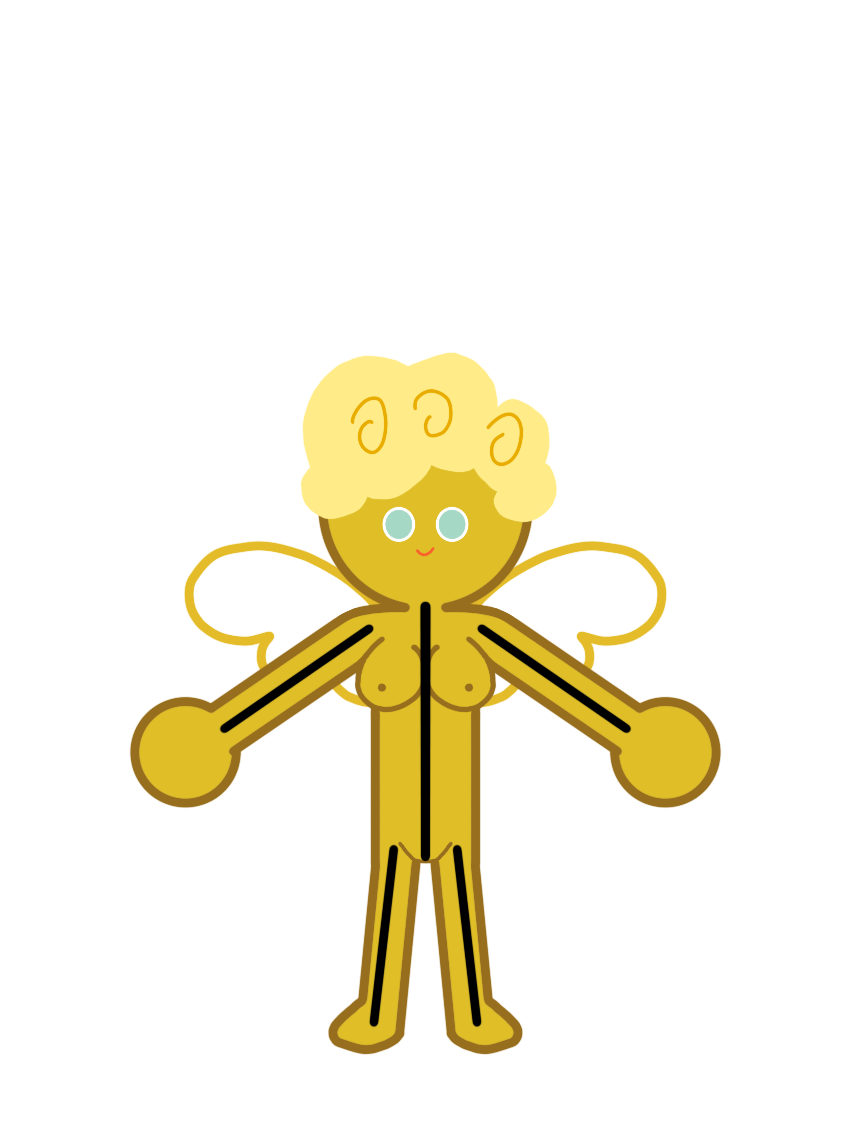
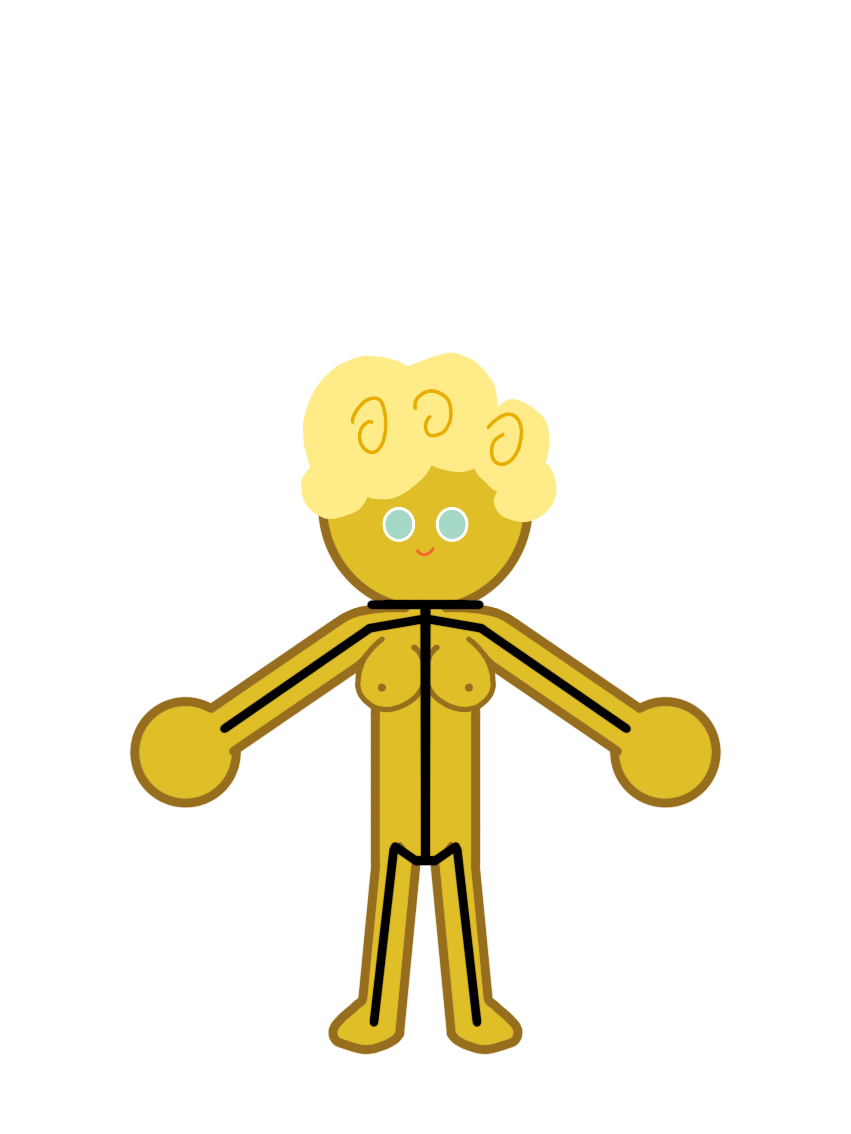
Second skeleton pass, and give each wing its own pivot
The new body drawing adds a shoulder bar and a little V at the hips, and it
settles the two things the first one left me guessing at.

The arm strokes turn out to be dead straight — half a pixel of residual over
their whole length, the legs a third of a pixel — so there is no elbow or knee
in the drawing to read and both stay at the midpoint. What the shoulder bar
changes is the top of the body: chest moves up to the middle of the bar at
y=605, from 626, and the shoulders come from where the arm strokes begin rather
than from the bar's ends. Those two readings agree on x to within a pixel and
differ by 24px in y, so the bar is read as the collarbone — it gives the chest
and the width the shoulders brace to — and the arm strokes give the pivots,
because a shoulder pivots where the arm leaves the body. That is the one
judgement call in the list and it is written down next to it.

Everything else moved by a pixel or two. neck 602 -> 600, pelvis 860 -> 864,
hips 845 -> 848, hands and feet unchanged.

The wings are now two parts rather than one. They were drawn with a bone each,
pivoting just off the spine, and one rigid piece cannot do that — it can only
tilt as a signboard. Rather than ask for the PNG to be exported twice, parts
take a clipX: the artwork already has a 105px gap between the two wings in every
sprite here, so cutting at x=425 loses no pixel and both entries share one file.
'flip' mirrors the far wing's flap and only the flap: both wings still trail the
[…]

diff --git a/pet_rig_config.js b/pet_rig_config.js
@@ -52,40 +52,50 @@ window.PET_RIG = {
     // NATURAL — traced off tools/skeleton.png, the bones drawn by hand over
     // the character. Arms out and down at 34° below horizontal; legs straight.
     //
-    // Five lines were drawn — spine, two arms, two legs — and the seventeen
-    // joints come off them like this, which is worth knowing if you redraw it:
+    // The drawing has a shoulder bar, a spine, two arms, two legs and a little
+    // V at the hips, and the seventeen joints come off them like this — worth
+    // knowing if you redraw it:
     //
     //   neck / pelvis     the two ends of the spine line
-    //   chest             on the spine, level with the shoulders (the sternum)
+    //   chest             the middle of the shoulder bar
+    //   shoulderL/R       the two ends of the ARM strokes, not of the bar. The
+    //                     bar sits 24px higher, and the two agree on x to
+    //                     within a pixel — so the bar is read as the collarbone
+    //                     (it gives chest, and the width the shoulders brace
+    //                     to) and the arm strokes give the pivots, because a
+    //                     shoulder pivots where the arm leaves the body. That
+    //                     is the one judgement call in this list.
     //   waist             on the spine, 62% of the way down
-    //   shoulder / hand   the two ends of an arm line
-    //   hip / foot        the two ends of a leg line
-    //   elbow / knee      halfway along, because a straight line does not say
-    //                     where they are. Mark them and they will be used.
+    //   hand / foot       the far ends of the arm and leg strokes
+    //   hipL/R            the outer ends of the V under the pelvis
+    //   elbow / knee      halfway along. The arm strokes are straight to within
+    //                     half a pixel over their whole length and the legs to
+    //                     within a third, so there is no bend to read. Draw one
+    //                     and it will be used instead.
     //   headTop           not drawn — placed so the head bone runs up the
-    //                     middle of the head. It is the one number here that
-    //                     came off the artwork rather than off the drawing.
+    //                     middle of the head. The one number here that came off
+    //                     the artwork rather than off the drawing.
     //
-    // The drawing came out symmetric to within a pixel: the four arm bones are
-    // 91.3–91.8px and all four leg bones are 90.7px.
+    // Symmetric to within a pixel: the arm bones come out 88.5–89.0px and every
+    // leg bone 89.7px.
     // ---------------------------------------------------------------------
     natural: {
       joints: {
         headTop:    { x:  424, y:  392 },
-        neck:       { x:  423, y:  602 },
-        chest:      { x:  423, y:  626 },
-        waist:      { x:  425, y:  762 },
-        pelvis:     { x:  426, y:  860 },
-        shoulderL:  { x:  372, y:  627 },
-        shoulderR:  { x:  479, y:  625 },
-        elbowL:     { x:  296, y:  678 },
-        elbowR:     { x:  554, y:  678 },
+        neck:       { x:  425, y:  600 },
+        chest:      { x:  425, y:  605 },
+        waist:      { x:  425, y:  764 },
+        pelvis:     { x:  425, y:  864 },
+        shoulderL:  { x:  367, y:  629 },
+        shoulderR:  { x:  483, y:  629 },
+        elbowL:     { x:  294, y:  680 },
+        elbowR:     { x:  556, y:  680 },
         handL:      { x:  221, y:  730 },
         handR:      { x:  629, y:  730 },
-        hipL:       { x:  394, y:  845 },
-        hipR:       { x:  456, y:  845 },
-        kneeL:      { x:  383, y:  935 },
-        kneeR:      { x:  467, y:  935 },
+        hipL:       { x:  394, y:  848 },
+        hipR:       { x:  456, y:  848 },
+        kneeL:      { x:  383, y:  937 },
+        kneeR:      { x:  467, y:  937 },
         footL:      { x:  372, y: 1025 },
         footR:      { x:  478, y: 1025 },
       },
@@ -121,7 +131,7 @@ window.PET_RIG = {
     // ---------------------------------------------------------------------
     // T-POSE — for art drawn with the arms straight out and the legs straight
     // down. Same character, same bone lengths as the drawn skeleton above
-    // (91.5px upper arm, 91.3px forearm, 90.7px thigh and shin), swung onto
+    // (89.0px upper arm, 88.5px forearm, 89.7px thigh and shin), swung onto
     // the axes.
     //
     // These are a starting point, not a measurement: nobody has drawn T-posed
@@ -130,22 +140,22 @@ window.PET_RIG = {
     tpose: {
       joints: {
         headTop:    { x:  424, y:  392 },
-        neck:       { x:  423, y:  602 },
-        chest:      { x:  423, y:  626 },
-        waist:      { x:  425, y:  762 },
-        pelvis:     { x:  426, y:  860 },
-        shoulderL:  { x:  372, y:  627 },
-        shoulderR:  { x:  479, y:  625 },
-        elbowL:     { x:  280, y:  627 },
-        elbowR:     { x:  571, y:  625 },
-        handL:      { x:  189, y:  627 },
-        handR:      { x:  662, y:  625 },
-        hipL:       { x:  394, y:  845 },
-        hipR:       { x:  456, y:  845 },
-        kneeL:      { x:  394, y:  936 },
-        kneeR:      { x:  456, y:  936 },
-        footL:      { x:  394, y: 1026 },
-        footR:      { x:  456, y: 1026 },
+        neck:       { x:  425, y:  600 },
+        chest:      { x:  425, y:  605 },
+        waist:      { x:  425, y:  764 },
+        pelvis:     { x:  425, y:  864 },
+        shoulderL:  { x:  367, y:  629 },
+        shoulderR:  { x:  483, y:  629 },
+        elbowL:     { x:  278, y:  629 },
+        elbowR:     { x:  572, y:  629 },
+        handL:      { x:  190, y:  629 },
+        handR:      { x:  660, y:  629 },
+        hipL:       { x:  394, y:  848 },
+        hipR:       { x:  456, y:  848 },
+        kneeL:      { x:  394, y:  938 },
+        kneeR:      { x:  456, y:  938 },
+        footL:      { x:  394, y: 1028 },
+        footR:      { x:  456, y: 1028 },
       },
 
       // Measured from horizontal now, so they are not the natural pose's
@@ -293,8 +303,17 @@ window.PET_RIG = {
     { id: 'hairBack', img: 'hair_back.png', bone: 'head', anchor: { x: 425, y: 420 },
       z: 55, lag: 0.14, maxLag: 10 },
 
-    { id: 'wings', img: 'wings.png', bone: 'torso', anchor: { x: 425, y: 648 },
-      z: 40, lag: 0.22, maxLag: 16, flap: true },
+    // TWO wings, not one. They are a single PNG — clipX takes the half each
+    // entry is, cut through the 105px gap the artwork already has between
+    // them, so nothing is lost and nothing has to be re-exported. Each gets the
+    // pivot drawn for it in tools/skeleton_wings.png, just off the spine, which
+    // is what lets them beat instead of tilting together like a signboard.
+    // 'flip' mirrors the far one's flap; both still trail the body the same way.
+    { id: 'wingL', img: 'wings.png', clipX: [0, 425], bone: 'torso',
+      anchor: { x: 409, y: 676 }, z: 40, lag: 0.22, maxLag: 16, flap: true },
+
+    { id: 'wingR', img: 'wings.png', clipX: [425, 851], bone: 'torso',
+      anchor: { x: 440, y: 675 }, z: 40, lag: 0.22, maxLag: 16, flap: true, flip: true },
 
   ],
 
@@ -401,14 +420,14 @@ window.PET_RIG = {
   // as well and moving them with the chest.
   softTissue: [
     { id: 'bustL',  x: 395, y: 682, radius: 58, lag: 0.34, stiffness: 190, damping: 20, sag: 0.010, maxOffset: 3.5 },
-    { id: 'bustR',  x: 457, y: 682, radius: 58, lag: 0.34, stiffness: 190, damping: 20, sag: 0.010, maxOffset: 3.5 },
-    { id: 'belly',  x: 425, y: 805, radius: 72, lag: 0.16, stiffness: 240, damping: 28, sag: 0.005, maxOffset: 2 },
-    { id: 'hipL',   x: 396, y: 872, radius: 62, lag: 0.12, stiffness: 280, damping: 32, maxOffset: 1.6 },
-    { id: 'hipR',   x: 454, y: 872, radius: 62, lag: 0.12, stiffness: 280, damping: 32, maxOffset: 1.6 },
-    { id: 'thighL', x: 389, y: 890, radius: 46, lag: 0.11, stiffness: 290, damping: 33, maxOffset: 1.5 },
-    { id: 'thighR', x: 461, y: 890, radius: 46, lag: 0.11, stiffness: 290, damping: 33, maxOffset: 1.5 },
-    { id: 'armL',   x: 334, y: 652, radius: 40, lag: 0.09, stiffness: 320, damping: 36, maxOffset: 1.1 },
-    { id: 'armR',   x: 516, y: 651, radius: 40, lag: 0.09, stiffness: 320, damping: 36, maxOffset: 1.1 },
+    { id: 'bustR',  x: 455, y: 682, radius: 58, lag: 0.34, stiffness: 190, damping: 20, sag: 0.010, maxOffset: 3.5 },
+    { id: 'belly',  x: 425, y: 810, radius: 72, lag: 0.16, stiffness: 240, damping: 28, sag: 0.005, maxOffset: 2 },
+    { id: 'hipL',   x: 395, y: 874, radius: 62, lag: 0.12, stiffness: 280, damping: 32, maxOffset: 1.6 },
+    { id: 'hipR',   x: 455, y: 874, radius: 62, lag: 0.12, stiffness: 280, damping: 32, maxOffset: 1.6 },
+    { id: 'thighL', x: 389, y: 893, radius: 46, lag: 0.11, stiffness: 290, damping: 33, maxOffset: 1.5 },
+    { id: 'thighR', x: 461, y: 893, radius: 46, lag: 0.11, stiffness: 290, damping: 33, maxOffset: 1.5 },
+    { id: 'armL',   x: 331, y: 655, radius: 40, lag: 0.09, stiffness: 320, damping: 36, maxOffset: 1.1 },
+    { id: 'armR',   x: 519, y: 655, radius: 40, lag: 0.09, stiffness: 320, damping: 36, maxOffset: 1.1 },
   ],
 
   // ---- Feel ---------------------------------------------------------------

diff --git a/pet_rig.js b/pet_rig.js
@@ -785,12 +785,20 @@ window.PetRig = (function () {
       }
 
       if (img) {
-        // One rigid piece: the whole 851x1134 canvas, drawn as it was authored.
+        // One rigid piece, drawn as it was authored — or one COLUMN RANGE of
+        // it. A pair of wings is a single PNG but two bones: each needs its own
+        // pivot or they can only ever swing as one plank. clipX takes the half
+        // this part is, so both entries share the artwork and nothing has to be
+        // exported twice. Cut it through the gap between the two halves and no
+        // pixel is lost.
+        const x0 = def.clipX ? clamp(def.clipX[0] | 0, 0, SRC.w) : 0;
+        const x1 = def.clipX ? clamp(def.clipX[1] | 0, 0, SRC.w) : SRC.w;
+        const cw = Math.max(1, x1 - x0);
         const c = document.createElement('canvas');
-        c.width = SRC.w; c.height = SRC.h;
-        c.getContext('2d').drawImage(img, 0, 0, SRC.w, SRC.h);
+        c.width = cw; c.height = SRC.h;
+        c.getContext('2d').drawImage(img, -x0, 0, SRC.w, SRC.h);
         slot.canvas = c;
-        slot.rect = def.rect || [0, 0, SRC.w, SRC.h];
+        slot.rect = def.clipX ? [x0, 0, cw, SRC.h] : (def.rect || [0, 0, SRC.w, SRC.h]);
         parts[p.id] = slot;
         return;
       }
@@ -1459,7 +1467,11 @@ window.PetRig = (function () {
       const ang = Math.atan2(B.y - A.y, B.x - A.x) - b.ang;
       let spin = slot.lag || 0;
       if (slot.def.flap && slot.flapT > 0.01) {
-        spin += Math.sin(slot.flapPhase || 0) * 0.30 * slot.flapT;
+        // 'flip' mirrors the FLAP and only the flap. Both halves of a pair have
+        // to trail the body the same way — that is the body turning under them —
+        // but a flap that also went the same way would have one wing rising
+        // while the other fell. A flap is symmetric; a trail is not.
+        spin += Math.sin(slot.flapPhase || 0) * 0.30 * slot.flapT * (slot.def.flip ? -1 : 1);
       }
       ctx.save();
       ctx.translate(A.x + ox, A.y + oy);

diff --git a/tools/README.md b/tools/README.md
@@ -21,12 +21,17 @@ same way a piece of clothing lines up.
 
 | file | hangs off | how it moves |
 |---|---|---|
-| `images/wings.png` | torso | one piece, trails the body, flaps in the air |
+| `images/wings.png` | torso | **two** pieces — the config splits the one PNG down the gap between the wings so each beats on its own pivot |
 | `images/cape.png` | torso | one piece, trails the body |
 | `images/tail.png` | pelvis | chain — whips and settles |
 | `images/ponytail.png` | head | chain — whips and settles |
 | `images/hair_back.png` | head | one piece, trails the head |
 | `images/hair_front.png` | head | drawn **over** the body and its clothes |
+
+`tools/skeleton.png` and `tools/skeleton_wings.png` are the hand-drawn bones the
+rig is traced from — the body's joints and the two wing pivots. Redraw over them
+to move a joint; see the note at the top of `pet_rig_config.js` for how the
+strokes are read.
 
 `parts_guide_*.png` in this folder is a tracing template: the character with the
 skeleton, the joints and each part's pivot drawn on top. Open it as a background
